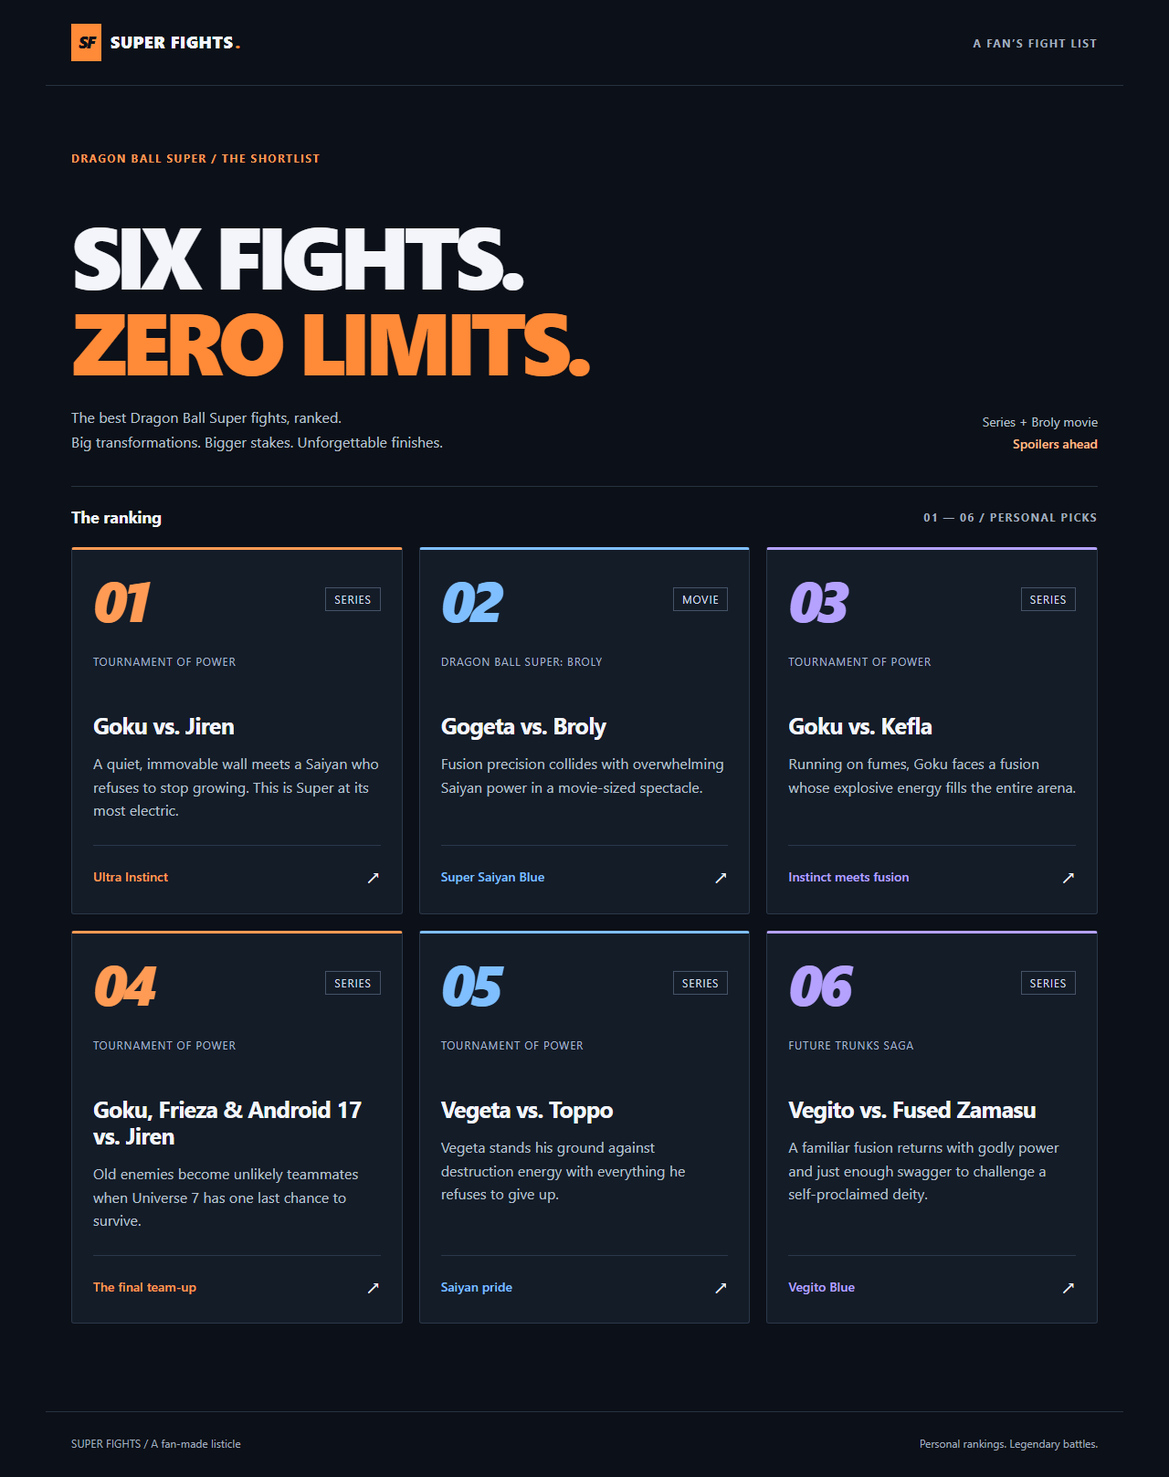
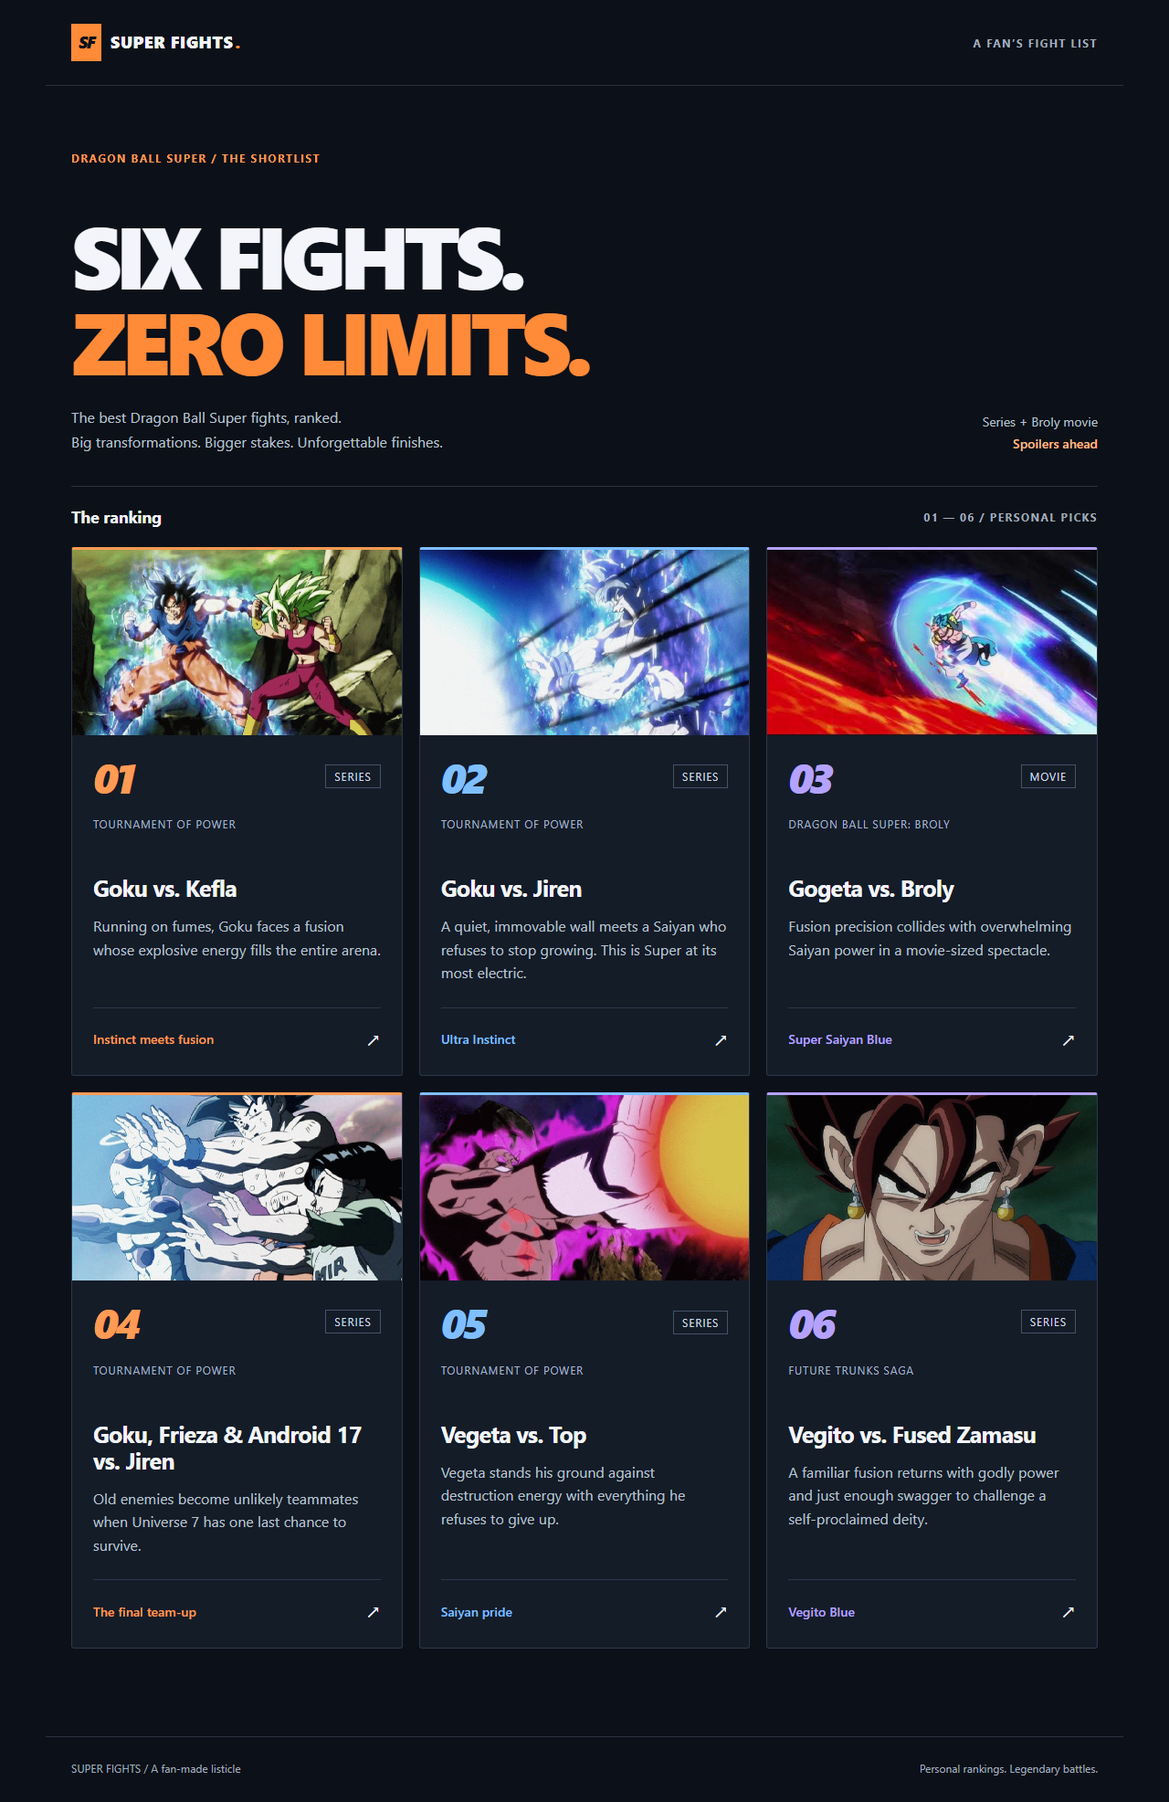
Rank Kefla first and add fight snapshots and video embeds

diff --git a/data/fights.js b/data/fights.js
@@ -1,63 +1,155 @@
 // Shared fields keep these records ready for a database in Unit 2.
 export const fights = [
   {
-    id: 1, slug: 'goku-vs-jiren', rank: 1, title: 'Goku vs. Jiren',
-    fighters: ['Goku', 'Jiren'], arc: 'Tournament of Power', format: 'Series',
-    location: 'World of Void', spotlight: 'Ultra Instinct',
-    description: 'A quiet, immovable wall meets a Saiyan who refuses to stop growing. This is Super at its most electric.',
-    standoutMoment: 'Goku reaches the silver-haired Ultra Instinct form, turning a desperate struggle into a breathtaking exchange.',
-    whyItRanks: 'The contrast does the work: Jiren is pure control, while Goku keeps reaching beyond himself. The shifts in pace and the payoff to Ultra Instinct make this my number one.',
-    outcome: 'Ultra Instinct takes a heavy toll on Goku before he can finish the fight. The tournament is ultimately decided by a final team effort.',
-    source: 'https://en.wikipedia.org/wiki/List_of_Dragon_Ball_Super_episodes'
+    "id": 3,
+    "slug": "goku-vs-kefla",
+    "rank": 1,
+    "title": "Goku vs. Kefla",
+    "fighters": [
+      "Goku",
+      "Kefla"
+    ],
+    "arc": "Tournament of Power",
+    "format": "Series",
+    "location": "World of Void",
+    "spotlight": "Instinct meets fusion",
+    "description": "Running on fumes, Goku faces a fusion whose explosive energy fills the entire arena.",
+    "standoutMoment": "Goku slides along Kefla’s energy beam with a charged Kamehameha, closing the distance for a point-blank finish.",
+    "whyItRanks": "My number one: few finishes are this inventive. The fight turns Goku’s exhaustion into tension and rewards it with one perfectly timed, unforgettable counterattack.",
+    "outcome": "Goku eliminates Kefla from the Tournament of Power with a close-range Kamehameha.",
+    "source": "https://en.wikipedia.org/wiki/List_of_Dragon_Ball_Super_episodes",
+    "coverImage": "https://lineup.toei-anim.co.jp/upload/save_image/episode/7682/story_img_2.png",
+    "coverAlt": "Goku dodges Kefla’s punch in the Tournament of Power.",
+    "coverSource": "https://www.toei-anim.co.jp/tv/dragon_s/episode/summary/116/",
+    "videoId": "BO-jft5EVSE",
+    "videoChannel": "Crunchyroll",
+    "videoLabel": "Fight highlight"
   },
   {
-    id: 2, slug: 'gogeta-vs-broly', rank: 2, title: 'Gogeta vs. Broly',
-    fighters: ['Gogeta', 'Broly'], arc: 'Dragon Ball Super: Broly', format: 'Movie',
-    location: 'Earth', spotlight: 'Super Saiyan Blue',
-    description: 'Fusion precision collides with overwhelming Saiyan power in a movie-sized spectacle.',
-    standoutMoment: 'Gogeta turns Super Saiyan Blue and takes command of a battle that seems to tear through reality itself.',
-    whyItRanks: 'Its animation, momentum, and scale are hard to beat. Broly brings raw emotion; Gogeta brings effortless confidence. Every exchange feels bigger than the last.',
-    outcome: 'Gogeta overwhelms Broly, but Cheelai wishes Broly back to Vampa before the final attack can land.',
-    source: 'https://en.wikipedia.org/wiki/Dragon_Ball_Super:_Broly'
+    "id": 1,
+    "slug": "goku-vs-jiren",
+    "rank": 2,
+    "title": "Goku vs. Jiren",
+    "fighters": [
+      "Goku",
+      "Jiren"
+    ],
+    "arc": "Tournament of Power",
+    "format": "Series",
+    "location": "World of Void",
+    "spotlight": "Ultra Instinct",
+    "description": "A quiet, immovable wall meets a Saiyan who refuses to stop growing. This is Super at its most electric.",
+    "standoutMoment": "Goku reaches the silver-haired Ultra Instinct form, turning a desperate struggle into a breathtaking exchange.",
+    "whyItRanks": "The contrast does the work: Jiren is pure control, while Goku keeps reaching beyond himself. The shifts in pace and the payoff to Ultra Instinct earn this a place near the top.",
+    "outcome": "Ultra Instinct takes a heavy toll on Goku before he can finish the fight. The tournament is ultimately decided by a final team effort.",
+    "source": "https://en.wikipedia.org/wiki/List_of_Dragon_Ball_Super_episodes",
+    "coverImage": "https://lineup.toei-anim.co.jp/upload/save_image/episode/10857/story_img_2.png",
+    "coverAlt": "Ultra Instinct Goku launches an energy attack during his fight with Jiren.",
+    "coverSource": "https://www.toei-anim.co.jp/tv/dragon_s/episode/summary/130/",
+    "videoId": "-FPxOLsnPwA",
+    "videoChannel": "Crunchyroll Dubs",
+    "videoLabel": "Official fight clip"
   },
   {
-    id: 3, slug: 'goku-vs-kefla', rank: 3, title: 'Goku vs. Kefla',
-    fighters: ['Goku', 'Kefla'], arc: 'Tournament of Power', format: 'Series',
-    location: 'World of Void', spotlight: 'Instinct meets fusion',
-    description: 'Running on fumes, Goku faces a fusion whose explosive energy fills the entire arena.',
-    standoutMoment: 'Goku slides along Kefla’s energy beam with a charged Kamehameha, closing the distance for a point-blank finish.',
-    whyItRanks: 'Few finishes are this inventive. The fight turns Goku’s exhaustion into tension and rewards it with one perfectly timed, unforgettable counterattack.',
-    outcome: 'Goku eliminates Kefla from the Tournament of Power with a close-range Kamehameha.',
-    source: 'https://en.wikipedia.org/wiki/List_of_Dragon_Ball_Super_episodes'
+    "id": 2,
+    "slug": "gogeta-vs-broly",
+    "rank": 3,
+    "title": "Gogeta vs. Broly",
+    "fighters": [
+      "Gogeta",
+      "Broly"
+    ],
+    "arc": "Dragon Ball Super: Broly",
+    "format": "Movie",
+    "location": "Earth",
+    "spotlight": "Super Saiyan Blue",
+    "description": "Fusion precision collides with overwhelming Saiyan power in a movie-sized spectacle.",
+    "standoutMoment": "Gogeta turns Super Saiyan Blue and takes command of a battle that seems to tear through reality itself.",
+    "whyItRanks": "Its animation, momentum, and scale are hard to beat. Broly brings raw emotion; Gogeta brings effortless confidence. Every exchange feels bigger than the last.",
+    "outcome": "Gogeta overwhelms Broly, but Cheelai wishes Broly back to Vampa before the final attack can land.",
+    "source": "https://en.wikipedia.org/wiki/Dragon_Ball_Super:_Broly",
+    "coverImage": "https://i.ytimg.com/vi/l3sl-Tn8hXc/hq2.jpg",
+    "coverAlt": "Gogeta charges through the air during his battle with Broly.",
+    "coverSource": "https://www.youtube.com/watch?v=l3sl-Tn8hXc",
+    "videoId": "l3sl-Tn8hXc",
+    "videoChannel": "Bandai Namco Entertainment",
+    "videoLabel": "Official battle preview"
   },
   {
-    id: 4, slug: 'universe-7-vs-jiren', rank: 4, title: 'Goku, Frieza & Android 17 vs. Jiren',
-    fighters: ['Goku', 'Frieza', 'Android 17', 'Jiren'], arc: 'Tournament of Power', format: 'Series',
-    location: 'World of Void', spotlight: 'The final team-up',
-    description: 'Old enemies become unlikely teammates when Universe 7 has one last chance to survive.',
-    standoutMoment: 'Goku and Frieza charge Jiren together while Android 17 supports them in the tournament’s final push.',
-    whyItRanks: 'After all the transformations, teamwork becomes the deciding factor. Goku and Frieza trusting each other for a single shared goal gives the finale its emotional punch.',
-    outcome: 'Goku and Frieza take Jiren out of the arena with them. Android 17 remains and wins the tournament for Universe 7.',
-    source: 'https://en.wikipedia.org/wiki/List_of_Dragon_Ball_Super_episodes'
+    "id": 4,
+    "slug": "universe-7-vs-jiren",
+    "rank": 4,
+    "title": "Goku, Frieza & Android 17 vs. Jiren",
+    "fighters": [
+      "Goku",
+      "Frieza",
+      "Android 17",
+      "Jiren"
+    ],
+    "arc": "Tournament of Power",
+    "format": "Series",
+    "location": "World of Void",
+    "spotlight": "The final team-up",
+    "description": "Old enemies become unlikely teammates when Universe 7 has one last chance to survive.",
+    "standoutMoment": "Goku and Frieza charge Jiren together while Android 17 supports them in the tournament’s final push.",
+    "whyItRanks": "After all the transformations, teamwork becomes the deciding factor. Goku and Frieza trusting each other for a single shared goal gives the finale its emotional punch.",
+    "outcome": "Goku and Frieza take Jiren out of the arena with them. Android 17 remains and wins the tournament for Universe 7.",
+    "source": "https://en.wikipedia.org/wiki/List_of_Dragon_Ball_Super_episodes",
+    "coverImage": "https://lineup.toei-anim.co.jp/upload/save_image/episode/10860/story_img_1.png",
+    "coverAlt": "Goku and Android 17 attack together during the final battle against Jiren.",
+    "coverSource": "https://www.toei-anim.co.jp/tv/dragon_s/episode/summary/131/",
+    "videoId": "tLvO-pvtn9E",
+    "videoChannel": "Animehaven",
+    "videoLabel": "Fight highlight"
   },
   {
-    id: 5, slug: 'vegeta-vs-toppo', rank: 5, title: 'Vegeta vs. Toppo',
-    fighters: ['Vegeta', 'Toppo'], arc: 'Tournament of Power', format: 'Series',
-    location: 'World of Void', spotlight: 'Saiyan pride',
-    description: 'Vegeta stands his ground against destruction energy with everything he refuses to give up.',
-    standoutMoment: 'Vegeta unleashes a massive explosion, echoing an earlier sacrifice while showing how far he has come.',
-    whyItRanks: 'This is a character moment disguised as a power struggle. Vegeta’s commitments to his family and his promises become the heart of the fight.',
-    outcome: 'Vegeta defeats and eliminates Toppo, surviving his own explosive attack.',
-    source: 'https://en.wikipedia.org/wiki/List_of_Dragon_Ball_Super_episodes'
+    "id": 5,
+    "slug": "vegeta-vs-top",
+    "rank": 5,
+    "title": "Vegeta vs. Top",
+    "fighters": [
+      "Vegeta",
+      "Top"
+    ],
+    "arc": "Tournament of Power",
+    "format": "Series",
+    "location": "World of Void",
+    "spotlight": "Saiyan pride",
+    "description": "Vegeta stands his ground against destruction energy with everything he refuses to give up.",
+    "standoutMoment": "Vegeta unleashes a massive explosion, echoing an earlier sacrifice while showing how far he has come.",
+    "whyItRanks": "This is a character moment disguised as a power struggle. Vegeta’s commitments to his family and his promises become the heart of the fight.",
+    "outcome": "Vegeta defeats and eliminates Top, surviving his own explosive attack.",
+    "source": "https://en.wikipedia.org/wiki/List_of_Dragon_Ball_Super_episodes",
+    "coverImage": "https://lineup.toei-anim.co.jp/upload/save_image/episode/10848/story_img_2.png",
+    "coverAlt": "Top unleashes destruction energy in his battle against Vegeta.",
+    "coverSource": "https://www.toei-anim.co.jp/tv/dragon_s/episode/summary/126/",
+    "videoId": "PDU65bHf8KQ",
+    "videoChannel": "Anime Fighter",
+    "videoLabel": "Fight video · English dub"
   },
   {
-    id: 6, slug: 'vegito-vs-fused-zamasu', rank: 6, title: 'Vegito vs. Fused Zamasu',
-    fighters: ['Vegito', 'Fused Zamasu'], arc: 'Future Trunks Saga', format: 'Series',
-    location: 'Future Earth', spotlight: 'Vegito Blue',
-    description: 'A familiar fusion returns with godly power and just enough swagger to challenge a self-proclaimed deity.',
-    standoutMoment: 'Vegito Blue fires the Final Kamehameha in a clash that combines Goku and Vegeta’s signature attacks.',
-    whyItRanks: 'The return of Vegito is pure excitement. His confidence and combination attacks make this a memorable burst of action, even if the fusion ends sooner than hoped.',
-    outcome: 'Vegito’s intense power use ends the fusion early. Goku and Vegeta separate before they can settle the fight.',
-    source: 'https://en.wikipedia.org/wiki/List_of_Dragon_Ball_Super_episodes'
+    "id": 6,
+    "slug": "vegito-vs-fused-zamasu",
+    "rank": 6,
+    "title": "Vegito vs. Fused Zamasu",
+    "fighters": [
+      "Vegito",
+      "Fused Zamasu"
+    ],
+    "arc": "Future Trunks Saga",
+    "format": "Series",
+    "location": "Future Earth",
+    "spotlight": "Vegito Blue",
+    "description": "A familiar fusion returns with godly power and just enough swagger to challenge a self-proclaimed deity.",
+    "standoutMoment": "Vegito Blue fires the Final Kamehameha in a clash that combines Goku and Vegeta’s signature attacks.",
+    "whyItRanks": "The return of Vegito is pure excitement. His confidence and combination attacks make this a memorable burst of action, even if the fusion ends sooner than hoped.",
+    "outcome": "Vegito’s intense power use ends the fusion early. Goku and Vegeta separate before they can settle the fight.",
+    "source": "https://en.wikipedia.org/wiki/List_of_Dragon_Ball_Super_episodes",
+    "coverImage": "https://lineup.toei-anim.co.jp/upload/save_image/episode/4552/story_img_1.png",
+    "coverAlt": "Vegito faces Fused Zamasu after Goku and Vegeta fuse.",
+    "coverSource": "https://www.toei-anim.co.jp/tv/dragon_s/episode/summary/66/",
+    "videoId": "R_4F6-5d0mM",
+    "videoChannel": "Crunchyroll Dubs",
+    "videoLabel": "Official fight clip"
   }
 ];

diff --git a/public/app.js b/public/app.js
@@ -16,6 +16,36 @@ function link(href, text, className) {
 }
 function rank(number) { return String(number).padStart(2, '0'); }
 
+function coverImage(fight, className) {
+  const image = element('img', className);
+  image.src = fight.coverImage;
+  image.alt = fight.coverAlt;
+  image.width = 640;
+  image.height = 360;
+  image.loading = 'lazy';
+  image.addEventListener('error', () => {
+    const fallback = element('p', 'image-unavailable', 'Fight snapshot is temporarily unavailable.');
+    image.replaceWith(fallback);
+  }, { once: true });
+  return image;
+}
+
+function renderVideo(fight) {
+  const section = element('section', 'video-section');
+  section.append(element('h2', '', 'Watch the fight'));
+  const frame = element('iframe', 'fight-video');
+  frame.src = 'https://www.youtube-nocookie.com/embed/' + fight.videoId;
+  frame.title = fight.title + ' — ' + fight.videoLabel;
+  frame.loading = 'lazy';
+  frame.allow = 'accelerometer; encrypted-media; gyroscope; picture-in-picture; fullscreen';
+  frame.allowFullscreen = true;
+  frame.referrerPolicy = 'strict-origin-when-cross-origin';
+  const caption = element('p', 'video-caption', fight.videoLabel + ' · ' + fight.videoChannel + ' · ');
+  caption.append(link('https://www.youtube.com/watch?v=' + fight.videoId, 'Open on YouTube ↗', 'video-link'));
+  section.append(frame, caption, element('p', 'video-note', 'If playback is unavailable here, open the video on YouTube.'));
+  return section;
+}
+
 function renderCard(fight) {
   const card = element('article', `fight-card card-${fight.rank}`);
   const heading = element('div', 'card-top');
@@ -25,7 +55,7 @@ function renderCard(fight) {
   const footer = element('div', 'card-bottom');
   footer.append(element('span', 'spotlight', fight.spotlight), element('span', 'card-arrow', '↗'));
   footer.lastChild.setAttribute('aria-hidden', 'true');
-  card.append(heading, element('p', 'card-arc', fight.arc), title, element('p', 'card-description', fight.description), footer);
+  card.append(coverImage(fight, 'card-cover'), heading, element('p', 'card-arc', fight.arc), title, element('p', 'card-description', fight.description), footer);
   return card;
 }
 
@@ -33,6 +63,10 @@ function renderDetail(fight) {
   document.title = `${fight.title} — Super Fights`;
   const hero = element('section', 'detail-hero');
   hero.append(element('p', 'eyebrow', `RANK ${rank(fight.rank)} / ${fight.format.toUpperCase()} / SPOILERS`), element('h1', '', fight.title), element('p', 'detail-description', fight.description));
+  const figure = element('figure', 'detail-cover');
+  const caption = element('figcaption', '', fight.coverAlt + ' ');
+  caption.append(link(fight.coverSource, 'Image source ↗'));
+  figure.append(coverImage(fight, 'detail-image'), caption);
   const panel = element('article', 'facts-panel');
   panel.append(element('h2', '', 'The matchup'));
   const facts = element('dl', 'facts');
@@ -50,7 +84,7 @@ function renderDetail(fight) {
   }
   const body = element('div', 'detail-grid');
   body.append(story, panel);
-  detail.append(hero, body, link('/', '← Explore all six fights', 'back-link'));
+  detail.append(hero, figure, renderVideo(fight), body, link('/', '← Explore all six fights', 'back-link'));
 }
 
 async function load() {

diff --git a/public/styles.css b/public/styles.css
@@ -87,3 +87,18 @@ a:focus-visible, button:focus-visible { outline: 3px solid #9ed5ff; outline-offs
 }
 @media (prefers-reduced-motion: reduce) { .fight-card { transition: none; } .fight-card:hover { transform: none; } }
 
+
+/* Fight snapshots and responsive embedded video. */
+.card-cover { width: calc(100% + 46px); max-width: none; height: auto; aspect-ratio: 16 / 9; object-fit: cover; margin: -23px -23px 22px; border-radius: 0; background: #080b12; }
+.card-top { margin-bottom: 20px; }
+.rank { font-size: 2.9rem; }
+.detail-cover { margin: 28px 0; }
+.detail-image { width: 100%; max-height: 500px; aspect-ratio: 16 / 9; object-fit: cover; background: #080b12; }
+.detail-cover figcaption, .video-caption, .video-note { font-size: .875rem; color: #a0adbf; }
+.detail-cover figcaption { padding-top: 10px; }
+.video-section { margin: 36px 0; }
+.video-section h2 { font-size: 1.5rem; }
+.fight-video { display: block; width: 100%; height: auto; aspect-ratio: 16 / 9; border: 1px solid #2b384a; background: #080b12; }
+.video-caption { margin: 14px 0 6px; }
+.video-note { margin: 0; }
+.image-unavailable { min-height: 160px; display: grid; place-content: center; padding: 20px; color: #b8c1ce; }

diff --git a/app.js b/app.js
@@ -13,6 +13,7 @@ app.get('/vendor/pico.min.css', (_req, res) =>
   res.sendFile(path.join(root, 'node_modules/@picocss/pico/css/pico.min.css')));
 
 app.get('/api/fights', (_req, res) => res.json(fights));
+app.get('/api/fights/vegeta-vs-toppo', (_req, res) => res.redirect(301, '/api/fights/vegeta-vs-top'));
 app.get('/api/fights/:slug', (req, res) => {
   const fight = fights.find(item => item.slug === req.params.slug);
   if (!fight) return res.status(404).json({ error: 'Fight not found' });
@@ -21,6 +22,8 @@ app.get('/api/fights/:slug', (req, res) => {
 app.use('/api', (_req, res) => res.status(404).json({ error: 'Route not found' }));
 
 app.get('/', (_req, res) => res.sendFile(path.join(root, 'pages/index.html')));
+// Keep existing bookmarks working after the name correction.
+app.get('/fights/vegeta-vs-toppo', (_req, res) => res.redirect(301, '/fights/vegeta-vs-top'));
 app.get('/fights/:slug', (req, res, next) => {
   if (!fights.some(item => item.slug === req.params.slug)) return next();
   res.sendFile(path.join(root, 'pages/fight.html'));

diff --git a/test/routes.test.js b/test/routes.test.js
@@ -12,6 +12,14 @@ test('list, all detail routes, local assets, and real 404 responses', async () =
     assert.match(await home.text(), /SIX FIGHTS/);
     const fights = await (await fetch(`${base}/api/fights`)).json();
     assert.equal(fights.length, 6);
+    assert.equal(fights[0].slug, 'goku-vs-kefla');
+    assert.deepEqual(fights.map(f => f.rank), [1, 2, 3, 4, 5, 6]);
+    assert.equal(fights.find(f => f.id === 5).title, 'Vegeta vs. Top');
+    for (const path of ['/fights/vegeta-vs-toppo', '/api/fights/vegeta-vs-toppo']) {
+      const redirect = await fetch(base + path, { redirect: 'manual' });
+      assert.equal(redirect.status, 301);
+      assert.equal(redirect.headers.get('location'), path.replace('toppo', 'top'));
+    }
     assert.equal(new Set(fights.map(f => f.slug)).size, 6);
     for (const fight of fights) {
       assert.equal((await fetch(`${base}/fights/${fight.slug}`)).status, 200);

diff --git a/README.md b/README.md
@@ -1,6 +1,6 @@
 # Web Development Project 1 — Super Fights
 
-**Super Fights** is a personal ranking of six Dragon Ball Super fights, including Dragon Ball Super: Broly. Visitors browse the cards and open a fight to read its standout moment, outcome, and ranking explanation.
+**Super Fights** is a personal ranking of six Dragon Ball Super fights, including Dragon Ball Super: Broly. Goku vs. Kefla leads the ranking. Visitors browse the cards and open a fight to read its standout moment, outcome, and ranking explanation.
 
 ## Required Features
 
@@ -33,7 +33,7 @@ npm start
 
 Open http://localhost:3000. During development, use `npm run dev` to restart the server automatically after edits. Set the `PORT` environment variable if port 3000 is already in use.
 
-Pico CSS is served from the installed package, so the app needs no external stylesheets, fonts, or images at runtime.
+Pico CSS is served locally. Fight snapshots load from Toei Animation and YouTube; embedded YouTube videos require internet access. Each video includes a direct YouTube link if embedding or regional availability prevents playback. Videos are labeled as highlights, clips, or previews; they are not all full fights.
 
 ## Project structure
 
@@ -60,7 +60,7 @@ Example: `/fights/goku-vs-jiren`.
 
 ## Data and customization
 
-Edit `data/fights.js` to change the ranking or descriptions. Every record uses the same fields: `id`, `slug`, `rank`, `title`, `fighters`, `arc`, `format`, `location`, `spotlight`, `description`, `standoutMoment`, `whyItRanks`, `outcome`, and `source`.
+Edit `data/fights.js` to change the ranking or descriptions. Every record uses the same fields: `id`, `slug`, `rank`, `title`, `fighters`, `arc`, `format`, `location`, `spotlight`, `description`, `standoutMoment`, `whyItRanks`, `outcome`, `source`, `coverImage`, `coverAlt`, `coverSource`, `videoId`, `videoChannel`, and `videoLabel`.
 
 The app currently stores data in a JavaScript array; it does not claim to have a database. The browser loads that data through Express. DOM text is inserted with `textContent` rather than interpreted as HTML.
 
@@ -88,3 +88,11 @@ Also verified in a real Chromium browser: all six rendered cards and detail page
 - [Dragon Ball Super: Broly plot](https://en.wikipedia.org/wiki/Dragon_Ball_Super:_Broly)
 
 Fight commentary is original; story references are linked on each detail page.
+
+## Fight media
+
+Each detail page credits its cover image and video uploader. Five covers are actual episode stills from Toei Animation’s episode pages; the Gogeta cover is a battle still from Bandai Namco’s official preview. Media remains hosted by the original providers. The old `/fights/vegeta-vs-toppo` URL redirects to `/fights/vegeta-vs-top`.
+
+- [x] A fight snapshot appears on each card and detail page.
+- [x] Every detail page has a responsive video player and direct playback link.
+- [x] Goku vs. Kefla is ranked first, and Top uses the requested name.
